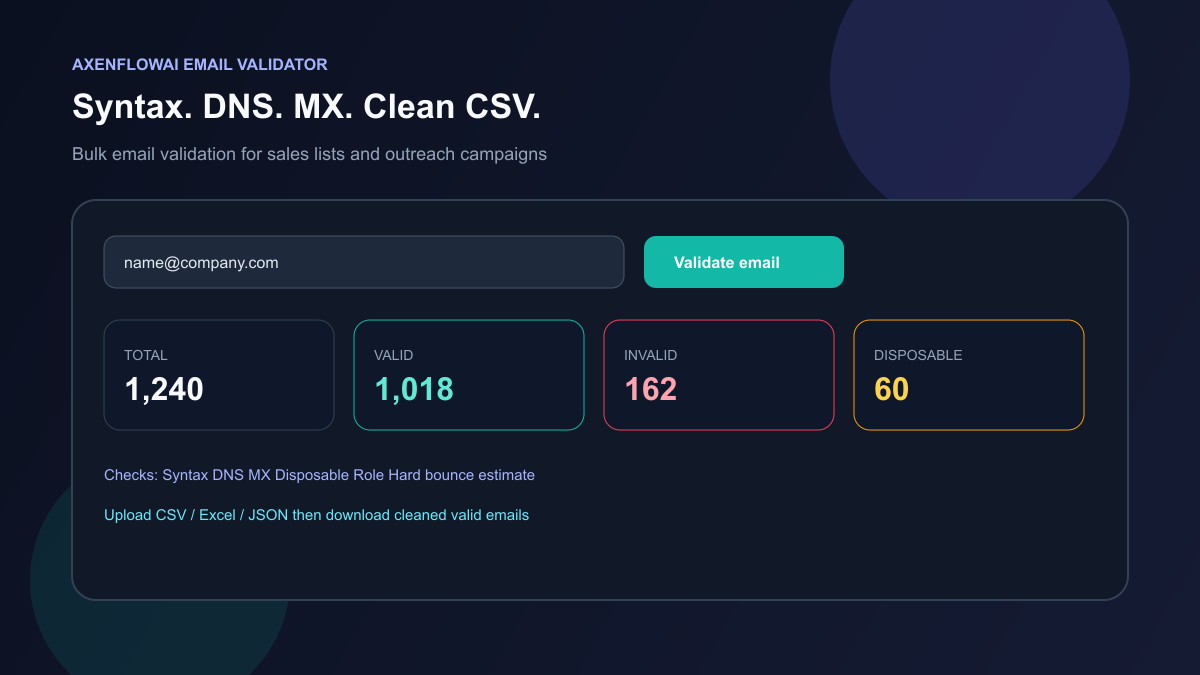
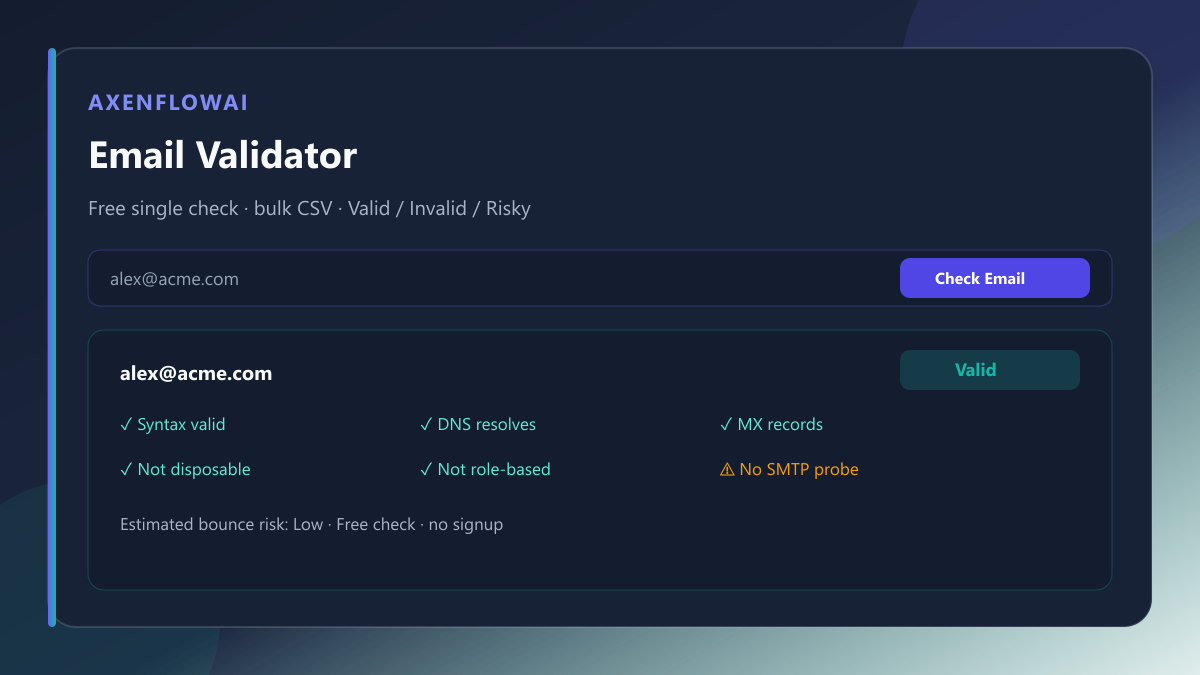
Update bulk email validation guide for free single-check tool UI.
Document free checker, result badges, What We Check, bulk gate limits, and aligned FAQs without inventing SMTP or accuracy claims.

diff --git a/src/components/blog/posts/BulkEmailValidationGuideContent.tsx b/src/components/blog/posts/BulkEmailValidationGuideContent.tsx
@@ -10,16 +10,33 @@ export function BulkEmailValidationGuideContent() {
         <strong>bulk email validator</strong> catches those issues before you hit send.
       </p>
       <p>
-        This guide shows how to prepare a CSV, run checks on the AxenFlowAI{" "}
+        This guide shows how to use the AxenFlowAI{" "}
         <Link href="/tools/email-validator" className="text-indigo-400 hover:text-teal-400">
           Email Validator
         </Link>
-        , read status fields, and export a clean list for CRM or outreach. Pair it with the{" "}
+        : start with the free single-email check (no signup), then sign in for CSV / Excel / JSON
+        bulk validation, read status fields, and export a clean list. Pair it with the{" "}
         <Link href="/blog/bulkphonevalidation" className="text-indigo-400 hover:text-teal-400">
           bulk phone validation guide
         </Link>{" "}
         when your lead file has both columns.
       </p>
+      <p>
+        <strong>Want to test a single email first?</strong> Use our{" "}
+        <Link href="/tools/email-validator" className="text-indigo-400 hover:text-teal-400">
+          free single-email checker
+        </Link>{" "}
+        — no signup required. You get a color-coded Valid / Invalid / Risky / Unknown badge plus a
+        checklist for syntax, DNS, MX, disposable, role, and bounce risk (rate-limited to prevent
+        abuse).
+      </p>
+
+      <BlogFigure
+        src="/images/blog/emailvalidator-cover.png"
+        alt="AxenFlowAI Email Validator free single email check with Valid status badge and checklist"
+        caption="Free single check above the fold — then unlock bulk CSV upload after you create an account."
+        priority
+      />
 
       <h2 className="blog-h2">Why bulk email validation beats spot checking</h2>
       <p>Checking five addresses by eye feels useful. It does not protect a 5,000 row send.</p>
@@ -44,40 +61,78 @@ export function BulkEmailValidationGuideContent() {
         or a scraper. Fresh hygiene beats weekly cleanup after spam complaints.
       </p>
 
-      <h2 className="blog-h2">Email checks available on AxenFlowAI</h2>
-      <p>Turn checks on or off before you run a single email or a CSV upload:</p>
+      <h2 className="blog-h2">What we check (same engine for free and bulk)</h2>
+      <p>
+        The free single check and signed-in bulk upload share the same validation service. On the
+        tool page, the <strong>What We Check</strong> section explains each layer:
+      </p>
       <ul className="blog-ul">
         <li>
-          <strong>Syntax check:</strong> Valid email format
+          <strong>Syntax validation:</strong> Catches typos and malformed addresses
         </li>
         <li>
-          <strong>DNS record:</strong> Domain resolves (A/AAAA)
+          <strong>DNS validation:</strong> Confirms the domain resolves (A/AAAA)
         </li>
         <li>
-          <strong>MX record:</strong> Domain can receive mail
+          <strong>MX record check:</strong> Confirms the domain can receive email
         </li>
         <li>
-          <strong>Disposable filter:</strong> Flags temp mail domains
+          <strong>Disposable / temporary email filter:</strong> Flags throwaway domains (Mailinator,
+          Guerrilla Mail, Yopmail, and similar)
         </li>
         <li>
-          <strong>Role account flag:</strong> info@, admin@, sales@, support@, and similar
+          <strong>Role-based detection:</strong> Flags info@, support@, admin@, and similar
         </li>
         <li>
-          <strong>Hard bounce estimate:</strong> Likely undeliverable from DNS/MX signals (not a
-          live send)
+          <strong>Catch-all / mailbox note:</strong> We do <em>not</em> run live SMTP probes, so we
+          cannot confirm catch-all domains or that a specific inbox exists. A valid MX is not a
+          mailbox guarantee.
         </li>
         <li>
-          <strong>Keep one email:</strong> If a cell has multiple addresses, keep the first valid
+          <strong>Bounce risk estimate:</strong> Combines signals into Low / Medium / High — not a
+          real send
         </li>
       </ul>
 
       <BlogFigure
-        src="/images/blog/emailvalidator-checks.png"
-        alt="AxenFlowAI Email Validator checks for syntax DNS MX disposable role and hard bounce estimate"
-        caption="Soft bounce needs real mailbox delivery and is not simulated here. Hard bounce is an estimate only."
+        src="/images/blog/emailvalidator-what-we-check.png"
+        alt="AxenFlowAI Email Validator What We Check section for syntax DNS MX disposable role and bounce risk"
+        caption="Live DNS/MX lookups power the checklist. We stay honest about what SMTP probing would add."
       />
 
-      <h2 className="blog-h2">Preparing your CSV for email validation</h2>
+      <h2 className="blog-h2">Free single-email check (no signup)</h2>
+      <p>
+        Open{" "}
+        <Link href="/tools/email-validator" className="text-indigo-400 hover:text-teal-400">
+          /tools/email-validator
+        </Link>
+        . Above the fold you will see:
+      </p>
+      <ol className="blog-ol">
+        <li>An email input and a <strong>Check Email</strong> button (no account wall)</li>
+        <li>A short animated checking sequence (syntax → DNS → MX → flags → bounce risk)</li>
+        <li>
+          A result card with a status badge: <strong>Valid</strong> (green),{" "}
+          <strong>Invalid</strong> (red), <strong>Risky</strong> (amber — often role accounts), or{" "}
+          <strong>Unknown</strong> (gray)
+        </li>
+        <li>
+          A checklist breakdown: syntax, DNS, MX, disposable, role, catch-all/mailbox not probed,
+          and estimated bounce risk
+        </li>
+      </ol>
+      <p>
+        Free checks are rate-limited (browser daily limit plus IP hourly limit) so the demo stays
+        usable without becoming an open bulk API.
+      </p>
+
+      <BlogFigure
+        src="/images/blog/emailvalidator-single-check.png"
+        alt="AxenFlowAI Email Validator single email check result showing valid status with syntax DNS MX and disposable checklist"
+        caption="What you see after a free check: badge + checklist, not a bare pass/fail line."
+      />
+
+      <h2 className="blog-h2">Preparing your CSV for bulk email validation</h2>
       <h3 className="blog-h3">Required column</h3>
       <p>Use a column named Email (or a clear email field in JSON). One address per row is ideal.</p>
       <ul className="blog-ul">
@@ -89,7 +144,12 @@ export function BulkEmailValidationGuideContent() {
       <h3 className="blog-h3">Encoding and junk rows</h3>
       <p>
         Save as UTF-8 CSV. Remove duplicate headers mid file, blank lines, and footer totals. Trim
-        whitespace so syntax checks do not fail on trailing spaces.
+        whitespace so syntax checks do not fail on trailing spaces. If you need CSV ↔ Excel cleanup
+        first, use the{" "}
+        <Link href="/tools/csv-excel-converter" className="text-indigo-400 hover:text-teal-400">
+          CSV to Excel Converter
+        </Link>
+        .
       </p>
 
       <h2 className="blog-h2">Common export sources (and what breaks)</h2>
@@ -126,39 +186,55 @@ export function BulkEmailValidationGuideContent() {
       </div>
 
       <h2 className="blog-h2">How to run bulk email validation on AxenFlowAI</h2>
+      <p>
+        Bulk CSV upload is account-gated (that is the list-cleaning product). Guests still see an
+        informative gate with limits and a sample output table — not a blank login wall.
+      </p>
       <ol className="blog-ol">
         <li>
           Open{" "}
           <Link href="/tools/email-validator" className="text-indigo-400 hover:text-teal-400">
             Email Validator
           </Link>{" "}
-          (sign in required to run checks).
+          and (optionally) try the free single check first.
         </li>
-        <li>Select the checks you need. Defaults cover syntax, DNS, MX, disposable, role, and bounce estimate.</li>
-        <li>Validate a single email, or upload CSV / Excel / JSON.</li>
+        <li>
+          Create an account or sign in for bulk. Limits shown on the page: up to{" "}
+          <strong>5,000 emails</strong> per request, max <strong>8MB</strong> file. Bulk is free
+          with an account today (no credit meter on this tool).
+        </li>
+        <li>
+          After sign-in, choose checks (syntax, DNS, MX, disposable, role, bounce estimate, keep
+          one email) and upload CSV / Excel / JSON — or paste a single address in the signed-in
+          panel.
+        </li>
         <li>Review summary counts: total, valid, invalid, disposable, hard bounce likely.</li>
         <li>Remove invalid rows if needed, then download full results or Valid only.</li>
       </ol>
 
       <BlogFigure
-        src="/images/blog/emailvalidator-export.png"
-        alt="Bulk email validation workflow prepare CSV validate then download clean list"
-        caption="Upload, validate, then download cleaned valid emails as CSV, Excel, or JSON."
+        src="/images/blog/emailvalidator-bulk-gate.png"
+        alt="AxenFlowAI Email Validator bulk CSV upload gate with sample status reason and bounce risk preview"
+        caption="Before signup you can preview sample report columns: original_email, status, reason, bounce_risk."
       />
 
       <h2 className="blog-h2">Reading your email validation results</h2>
-      <h3 className="blog-h3">Status fields</h3>
+      <h3 className="blog-h3">Status fields (bulk export)</h3>
       <ul className="blog-ul">
         <li>
-          <strong>Valid:</strong> Passes the checks you enabled
+          <strong>Valid:</strong> Passes the checks you enabled at the domain/format layer
         </li>
         <li>
-          <strong>Invalid:</strong> Fails syntax, DNS/MX, or other selected rules
+          <strong>Invalid:</strong> Fails syntax, DNS/MX, or disposable rules
         </li>
         <li>
           <strong>Unknown:</strong> Incomplete signal for a required check
         </li>
       </ul>
+      <p>
+        On the free single-check card, <strong>Risky</strong> highlights Valid-looking domains that
+        are role accounts (or uncertain bounce risk) so you review before cold email.
+      </p>
 
       <h3 className="blog-h3">Flag fields</h3>
       <ul className="blog-ul">
@@ -177,8 +253,20 @@ export function BulkEmailValidationGuideContent() {
       <BlogFigure
         src="/images/blog/emailvalidator-results.png"
         alt="Email validator results table with status MX disposable role and bounce columns"
-        caption="Filter Valid emails for campaigns. Keep role and disposable flags for segmentation."
+        caption="After bulk validation, filter Valid emails for campaigns. Keep role and disposable flags for segmentation."
       />
+
+      <h2 className="blog-h2">Privacy and trust (what we say on the tool)</h2>
+      <p>
+        Bulk validation runs on our servers for the request and returns results to your browser.
+        Uploaded lists are not written into a marketing database, and we do not sell email lists.
+        Exports download client-side. For broader data practices, see the{" "}
+        <Link href="/privacy" className="text-indigo-400 hover:text-teal-400">
+          Privacy Policy
+        </Link>
+        . We do not invent an overall “99% accuracy” number — DNS/MX layers use live lookups;
+        mailbox existence is not SMTP-confirmed.
+      </p>
 
       <h2 className="blog-h2">Filtering for your channel</h2>
       <p>
@@ -218,21 +306,37 @@ export function BulkEmailValidationGuideContent() {
 
       <h2 className="blog-h2">Bulk email validation FAQ</h2>
       <p>
-        <strong>Is AxenFlowAI Email Validator free to use?</strong> Yes after you sign in. Run
-        single checks or upload CSV / Excel / JSON and download cleaned results.
+        <strong>Is there a free check without signup?</strong> Yes. Use the single-email checker on
+        the{" "}
+        <Link href="/tools/email-validator" className="text-indigo-400 hover:text-teal-400">
+          Email Validator
+        </Link>{" "}
+        page. Bulk CSV requires an account.
       </p>
       <p>
-        <strong>Does this confirm the mailbox exists with a live SMTP check?</strong> No. It
-        validates format, DNS, MX, disposable domains, role flags, and a hard bounce estimate. Live
-        mailbox probing is a separate paid layer for custom projects.
+        <strong>Does this confirm the mailbox exists with a live SMTP check?</strong> No. We
+        validate format, DNS, MX, disposable domains, role flags, and a bounce risk estimate. We do
+        not SMTP-probe, so catch-all domains and individual inboxes are not confirmed.
       </p>
       <p>
-        <strong>What file formats are supported?</strong> CSV, Excel (XLSX), and JSON. CSV/Excel
-        need an Email column.
+        <strong>What&apos;s the difference between Invalid and Risky?</strong> Invalid means syntax,
+        domain/MX, or disposable failed. Risky on the free badge usually means a role account (or
+        uncertain bounce risk) that still looks deliverable at the domain layer — review before
+        cold email.
       </p>
       <p>
-        <strong>Can I download only valid emails?</strong> Yes. After validation, download Valid
-        only as CSV, Excel, or JSON.
+        <strong>What file formats and limits apply to bulk?</strong> CSV, Excel (XLSX), and JSON.
+        Up to 5,000 emails per request, max 8MB. CSV/Excel need an Email column.
+      </p>
+      <p>
+        <strong>Do you store or sell emails I upload?</strong> Validation is request-scoped for the
+        tool response. Lists are not saved into a marketing database, and we do not sell email
+        lists. See the Privacy Policy for general practices.
+      </p>
+      <p>
+        <strong>Will validating hurt my sender reputation?</strong> These checks do not send mail
+        to recipients. Cleaning invalid and disposable addresses before you send usually reduces
+        hard bounces.
       </p>
       <p>
         <strong>Should I validate phones too?</strong> Yes when your sheet has phone numbers. Use{" "}
@@ -248,12 +352,13 @@ export function BulkEmailValidationGuideContent() {
 
       <h2 className="blog-h2">Conclusion</h2>
       <p>
-        Bulk email validation is cheap insurance for deliverability. Clean CSV in, Valid emails out,
-        disposable and role flags attached, then send with confidence. Open the{" "}
+        Start with a free single check to see the badge and checklist, then clean full lists with
+        bulk email validation after sign-in. Clean CSV in, Valid emails out, disposable and role
+        flags attached — then send with more confidence. Open the{" "}
         <Link href="/tools/email-validator" className="text-indigo-400 hover:text-teal-400">
           Email Validator
         </Link>{" "}
-        and clean your next list today.
+        and try an address now.
       </p>
     </>
   );

diff --git a/src/lib/blog/posts.ts b/src/lib/blog/posts.ts
@@ -168,9 +168,9 @@ export const BLOG_POSTS: BlogPostMeta[] = [
     slug: "bulkemailvalidation",
     title: "Bulk Email Validation Guide: Clean CSV Lists Before You Send",
     description:
-      "Step by step guide to bulk email validation with syntax, DNS, MX, disposable, and role checks. Upload CSV, export valid emails, and protect deliverability with AxenFlowAI.",
+      "Step by step bulk email validation guide: free single email check, syntax DNS MX disposable role checks, CSV upload limits, and Valid-only export on AxenFlowAI.",
     publishedAt: "2026-07-28",
-    updatedAt: "2026-07-28",
+    updatedAt: "2026-07-31",
     keywords: [
       "bulk email validation",
       "email validator",
@@ -179,18 +179,19 @@ export const BLOG_POSTS: BlogPostMeta[] = [
       "MX record check",
       "disposable email filter",
       "hard bounce estimate",
+      "free email checker",
       "AxenFlowAI email validator",
       "email deliverability",
     ],
-    readingMinutes: 9,
+    readingMinutes: 10,
     category: "Lead Validation",
     coverImage: "/images/blog/emailvalidator-cover.png",
     coverAlt:
-      "AxenFlowAI Email Validator showing bulk email validation summary for valid invalid and disposable emails",
+      "AxenFlowAI Email Validator free single email check with Valid status badge and checklist",
     cta: {
-      title: "Validate your email list free",
+      title: "Try the free email check, then clean your CSV",
       description:
-        "Run syntax, DNS, MX, disposable, and role checks. Upload CSV and download clean Valid emails on AxenFlowAI.",
+        "No signup for a single check. Sign in for bulk CSV validation with syntax, DNS, MX, disposable, and role flags.",
       primary: { href: "/tools/email-validator", label: "Open Email Validator" },
       secondary: [
         { href: "/tools/phone-validator", label: "Phone Validator" },
@@ -199,24 +200,29 @@ export const BLOG_POSTS: BlogPostMeta[] = [
     },
     faqs: [
       {
-        question: "Is AxenFlowAI Email Validator free to use?",
+        question: "Is there a free email check without signup?",
         answer:
-          "Yes after you sign in. Run single checks or upload CSV, Excel, or JSON and download cleaned results.",
+          "Yes. The Email Validator page includes a rate-limited free single-email check with a status badge and checklist. Bulk CSV upload requires an account.",
       },
       {
         question: "Does this confirm the mailbox exists with a live SMTP check?",
         answer:
-          "No. It validates format, DNS, MX, disposable domains, role flags, and a hard bounce estimate. Live mailbox probing is a separate paid layer for custom projects.",
+          "No. It validates format, DNS, MX, disposable domains, role flags, and a bounce risk estimate. We do not SMTP-probe, so catch-all domains and individual inboxes are not confirmed.",
       },
       {
-        question: "What file formats are supported for bulk email validation?",
+        question: "What's the difference between Invalid and Risky?",
         answer:
-          "CSV, Excel (XLSX), and JSON. CSV and Excel need an Email column. JSON can be an emails array or objects with email fields.",
+          "Invalid means syntax, domain/MX, or disposable failed. Risky on the free check badge usually means a role account or uncertain bounce risk that still looks deliverable at the domain layer.",
       },
       {
-        question: "Can I download only valid emails?",
+        question: "What file formats and limits apply to bulk email validation?",
         answer:
-          "Yes. After validation, download Valid only as CSV, Excel, or JSON for CRM import or outreach.",
+          "CSV, Excel (XLSX), and JSON. Up to 5,000 emails per request and max 8MB. CSV and Excel need an Email column.",
+      },
+      {
+        question: "Do you store or sell the emails I upload?",
+        answer:
+          "Validation is request-scoped for the tool response. Lists are not saved into a marketing database, and we do not sell email lists. See the Privacy Policy for general practices.",
       },
       {
         question: "Should I validate phones too?",
